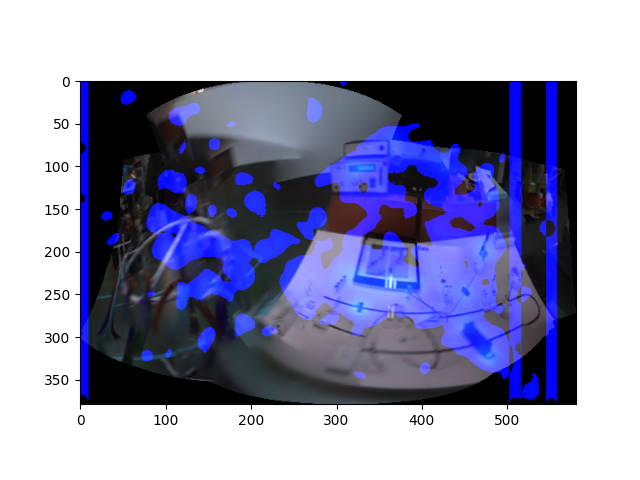
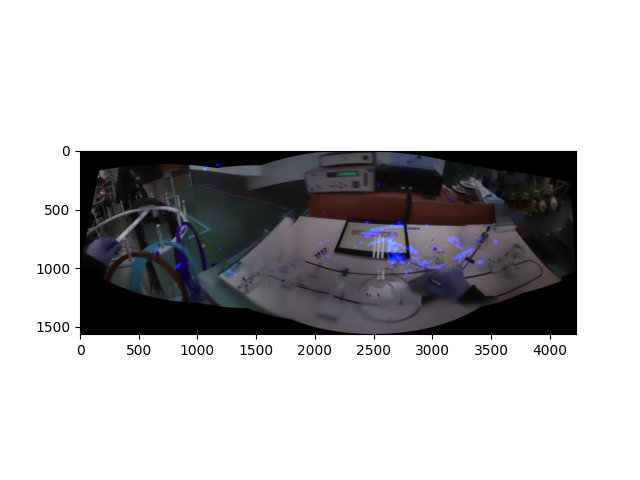
gpu support finished

diff --git a/HeatmapClass/Heatmap/ConverterGPU.py b/HeatmapClass/Heatmap/ConverterGPU.py
@@ -71,16 +71,15 @@ class Convert2DGPU(DataHandler):
         else:
             self.world_panorama = panorama
 
-
         # Initiate matcher
-        self.matcher = cv2.cuda.DescriptorMatcher_createBFMatcher(cv2.NORM_HAMMING)
+        self.matcher = cv2.cuda.DescriptorMatcher_createBFMatcher(cv2.NORM_L2)
         self.MIN_MATCH_COUNT = 4
 
         # panorama stream
         pan_stream = cv2.cuda_Stream()
 
         # Initiate ORB detector
-        self.orb = cuda.ORB_create(nfeatures=50000, scoreType=cv2.ORB_HARRIS_SCORE, blurForDescriptor=True)
+        self.surf = cv2.cuda.SURF_CUDA_create(300, _nOctaveLayers=2)
 
         # Load the image onto the GPU
         cuMat = cv2.cuda_GpuMat()
@@ -90,10 +89,10 @@ class Convert2DGPU(DataHandler):
         cuMat = cv2.cuda.cvtColor(cuMat, cv2.COLOR_BGR2GRAY, stream=pan_stream)
 
         # Create the CUDA ORB detector and detect keypoints/descriptors
-        kp2, self.des2 = self.orb.detectAndComputeAsync(cuMat, None, stream=pan_stream)
+        kp2, self.des2 = self.surf.detectWithDescriptors(cuMat, None)
 
         # Download the keypoints from the GPU memory
-        self.kp2 = self.orb.convert(kp2)
+        self.kp2 = cv2.cuda_SURF_CUDA.downloadKeypoints(self.surf, kp2)
         pan_stream.waitForCompletion()
 
         self.frame_idx = 0
@@ -131,6 +130,9 @@ class Convert2DGPU(DataHandler):
 
         data = data.astype({'X': int, 'Y': int})
         
+        df = data.loc[~(data[['X', 'Y']]==0).all(axis=1)]
+        print(len(df) / len(data))
+
         return data
 
     def QueueFiller(self):
@@ -155,7 +157,7 @@ class Convert2DGPU(DataHandler):
 
         while not self.queue.qsize() == 0 and self.updating:
             print(f"\rQueue size: {self.queue.qsize()}     Read {round((self.frame_idx / self.total_frames) * 100)}% of frames ", end='', flush=True)
-        print()
+        print(f"\rQueue size: {self.queue.qsize()}     Read {round((self.frame_idx / self.total_frames) * 100)}% of frames ", end='\n', flush=True)
         
     def Convert(self):
 
@@ -174,13 +176,13 @@ class Convert2DGPU(DataHandler):
             cuMatFrame = cv2.cuda.cvtColor(cuMatFrame, cv2.COLOR_BGR2GRAY, stream=frame_stream)
 
             # Detect keypoints/descriptors                
-            kp1, des1 = self.orb.detectAndComputeAsync(cuMatFrame, None, stream=frame_stream)
-
+            kp1, des1 = self.surf.detectWithDescriptors(cuMatFrame, None)
             gpu_matches = self.matcher.knnMatchAsync(des1, self.des2, k=2, stream=frame_stream)
-            frame_stream.waitForCompletion()
 
             # Download the keypoints and matches from GPU memory
-            kp1 = self.orb.convert(kp1)
+            kp1 = cv2.cuda_SURF_CUDA.downloadKeypoints(self.surf, kp1)
+            frame_stream.waitForCompletion()
+
             matches = self.matcher.knnMatchConvert(gpu_matches)
 
             # store all the good matches as per Lowe's ratio test.

diff --git a/HeatmapClass/Heatmap/Panorama.py b/HeatmapClass/Heatmap/Panorama.py
@@ -4,23 +4,25 @@ import shutil
 
 class Panorama:
 
-    def __init__(self, video, name, size):
+    def __init__(self, video, name, scaling):
 
         self.name = name
         self.folder = "frames/"
-        # if os.path.isdir(self.folder):
-        #     shutil.rmtree(self.folder)
-        # os.mkdir(self.folder)
+        if os.path.isdir(self.folder):
+            shutil.rmtree(self.folder)
+        os.mkdir(self.folder)
 
         # open vidcap
         self.cap = cv2.VideoCapture(video) # your video here
-        self.size = size
+        self.scaling = scaling
+        self.world_height = int(self.cap.get(cv2.CAP_PROP_FRAME_HEIGHT))
+        self.world_width = int(self.cap.get(cv2.CAP_PROP_FRAME_WIDTH))
     
     def Create_Panorama(self):
         self.Decimate()
         pan = self.Stitch()
 
-        if pan:
+        if pan is not None:
             return pan
 
     def Decimate(self):
@@ -37,7 +39,7 @@ class Panorama:
         # store the first frame
         _, last = self.cap.read()
         last = self.__rescale(last)
-        cv2.imwrite(self.folder + str(counter).zfill(5) + ".png", cv2.resize(last, self.size))
+        cv2.imwrite(self.folder + str(counter).zfill(5) + ".png", cv2.resize(last, (self.world_width // self.scaling, self.world_height // self.scaling)))
 
         # get the first frame's stuff
         kp1, des1 = orb.detectAndCompute(last, None)
@@ -77,14 +79,14 @@ class Panorama:
                 last = frame
                 kp1 = kp2
                 des1 = des2
-                cv2.imwrite(self.folder + str(counter).zfill(5) + ".png", cv2.resize(last, self.size))
+                cv2.imwrite(self.folder + str(counter).zfill(5) + ".png", cv2.resize(last, (self.world_width // self.scaling, self.world_height // self.scaling)))
                 print("\rSaved " + str(counter) + " frames", end='', flush=True)
 
             prev = frame
 
         # also save last frame
         counter += 1
-        cv2.imwrite(self.folder + str(counter).zfill(5) + ".png", cv2.resize(prev, self.size))
+        cv2.imwrite(self.folder + str(counter).zfill(5) + ".png", cv2.resize(prev, (self.world_width // self.scaling, self.world_height // self.scaling)))
         
         self.cap.release()
     
@@ -120,6 +122,6 @@ class Panorama:
 
 
 if __name__ == "__main__":
-    pan = Panorama('waak/waak.mp4', 'waak/waak_panorama.png', (256, 256))
+    pan = Panorama('waak/waak.mp4', 'waak/waak_panorama.png', 1)
 
-    stiched = pan.Stitch()
+    stiched = pan.Create_Panorama()

diff --git a/HeatmapClass/Heatmap/HeatmapMaker.py b/HeatmapClass/Heatmap/HeatmapMaker.py
@@ -11,12 +11,11 @@ class HeatmapMaker:
 
     def __init__(self, data, video, tracker, threads=5, scaling=1, panorama_name=None, filter=7, panorama='create', gpu=False) -> None:
 
-
         if panorama: # panorama not None -> expect data from mobile eyetracker
 
             if panorama == 'create':
                 print("Creating panorama. This can take a while...\n")
-                panorama_maker = Panorama(video, panorama_name, (self.world_width // scaling, self.world_height // scaling))
+                panorama_maker = Panorama(video, panorama_name, scaling)
                 self.world_panorama = panorama_maker.Create_Panorama()
             else:
                 self.world_panorama = cv2.imread(panorama)
@@ -54,9 +53,9 @@ class HeatmapMaker:
 
 if __name__ == "__main__":
 
-    # map = HeatmapMaker('./waak/data.tsv', './waak/waak.mp4', 'tobii', panorama='./waak/waak_panorama.png', filter=7, gpu=False)
+    map = HeatmapMaker('./waak/data.tsv', './waak/waak.mp4', 'tobii', panorama='./waak/waak_panorama.png', filter=7, gpu=True)
 
-    map = HeatmapMaker('./pupillabs/gaze_positions.csv', './pupillabs/world.mp4', 'pupillabs', panorama='./pupillabs/panorama.png', filter=7, gpu=True)
+    # map = HeatmapMaker('./pupillabs/gaze_positions.csv', './pupillabs/world.mp4', 'pupillabs', panorama='./pupillabs/panorama.png', filter=7, gpu=True)
 
     heatmap, pan = map.make_heatmap()
     heatmap = cv2.addWeighted(pan, 1, heatmap, 1, 0)
